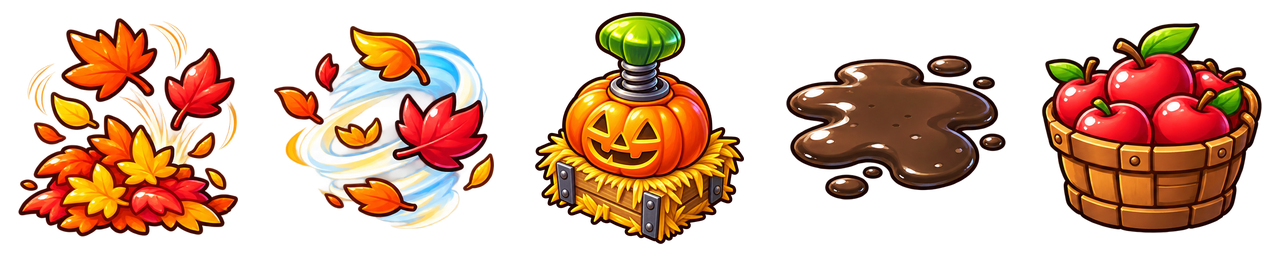
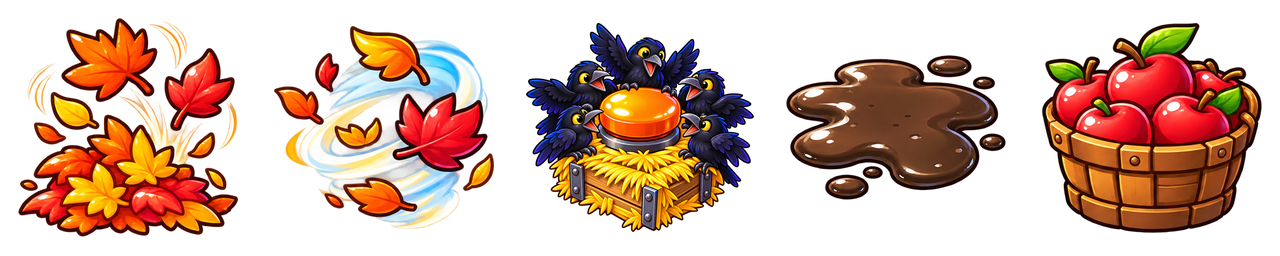
Deliver CR1 crows trigger and CR2 aligned flying crows; 36 unit and 32 silent browser checks passed

Changed region(s): [[0.4062, 0.0312, 0.5938, 0.9688]]

diff --git a/americangirldollrace/tracks.js b/americangirldollrace/tracks.js
@@ -93,7 +93,7 @@
 // TRACK_SHARED_ART lists delivered sheets at assets/<name>_sprites.webp that
 // several tracks may use: "skeleton_horse", "troll_riding" (§6 of the briefs)
 // and "frog" (§10).
-window.TRACK_SHARED_ART = ["skeleton_horse", "troll_riding", "frog", "rooster_crow"];
+window.TRACK_SHARED_ART = ["skeleton_horse", "troll_riding", "frog", "rooster_crow", "crow"];
 window.TRACK_GENERAL_MUSIC = ["assets/music/Plastic Shoes.mp3", "assets/music/Bubblegum Radar.mp3"];
 window.TRACK_THEMES = {
   farm: {
@@ -192,8 +192,9 @@ window.TRACK_THEMES = {
     empStyle: "crows",
     monster: "scarecrow",
     fenceBase: 479,
+    powerupArtVersion: "20261023-crows1",
     name: "Pumpkin Patch", music: "assets/music/Hey, Hay! Pumpkin Patch.mp3", dirtTop: 509, loopMode: "repeat", art: ["background", "card", "powerups", "projectile", "hurdle"],
-    labels: { jump: "LEAF PILE", boost: "LEAF GUST", emp: "SCARECROW", oil: "PUDDLE", snowball: "APPLES" },
+    labels: { jump: "LEAF PILE", boost: "LEAF GUST", emp: "CROWS", oil: "PUDDLE", snowball: "APPLES" },
     sounds: { emp: "pickup_crows" }
   },
   clouds: {

diff --git a/americangirldollrace/index.html b/americangirldollrace/index.html
@@ -327,7 +327,7 @@
     </main>
     <div id="barsHint" hidden><span class="bars-arrow" aria-hidden="true">↑</span> Swipe up to hide Safari’s bars · or Share → Add to Home Screen</div>
     <script src="config.js?v=81dc0cfb"></script>
-    <script src="tracks.js?v=2dc7a76f"></script>
+    <script src="tracks.js?v=1e69611b"></script>
     <script src="doll-art.js?v=05306016"></script>
     <script src="assets/audio/manifest.js?v=8761a783"></script>
     <script src="audio.js?v=baeb1965"></script>

diff --git a/americangirldollrace/tools/effects/autumn-crows/build.py b/americangirldollrace/tools/effects/autumn-crows/build.py
@@ -1,0 +1,46 @@
+"""Export the two reviewed crow assets, retaining untouched pickup pixels."""
+from pathlib import Path
+from PIL import Image
+import numpy as np
+import json, hashlib, importlib.util
+HERE = Path(__file__).resolve().parent
+GAME = HERE.parents[2]
+spec = importlib.util.spec_from_file_location('packing', GAME/'tools/tracks/build.py')
+p = importlib.util.module_from_spec(spec); spec.loader.exec_module(p)
+icon = p.clean(Image.open(HERE/'icon-source.webp'))
+button = p.icon(icon, (256,256), (228,228))
+before = Image.open(HERE/'powerups-before.webp').convert('RGBA')
+after = before.copy(); after.paste(button, (512,0))
+for n in [0,1,3,4]:
+    box=(n*256,0,(n+1)*256,256)
+    assert before.crop(box).tobytes() == after.crop(box).tobytes()
+after.save(GAME/'assets/tracks/autumn/powerups.webp', lossless=True, exact=True, method=6)
+source = p.clean(Image.open(HERE/'flight-source.webp'))
+occupied=(np.asarray(source.getchannel('A'))>8).any(axis=0)
+cuts=[0]+[p.gap_cut(occupied,round(source.width*n/4),round(source.width*.04)) for n in [1,2,3]]+[source.width]
+items=[]
+for n in range(4):
+    im=source.crop((cuts[n],0,cuts[n+1],source.height));b=p.bounds(im)
+    assert b and b[0]>0 and b[1]>0 and b[2]<im.width and b[3]<im.height,b
+    a=np.asarray(im);mask=(a[:,:,0]>180)&(a[:,:,1]>130)&(a[:,:,2]<110)&(a[:,:,3]>64)
+    yy,xx=np.nonzero(mask);assert len(xx)>30
+    # The yellow eye is the same rigid head landmark in all four poses.
+    eye=[float(xx.mean()),float(yy.mean())]
+    items.append((im,b,eye))
+scale=min(90/max(b[2]-b[0] for _,b,_ in items),54/max(e[1]-b[1] for _,b,e in items),60/max(b[3]-e[1] for _,b,e in items))
+sheet=Image.new('RGBA',(512,128));frames=[]
+for n,(im,b,eye) in enumerate(items):
+    art=im.crop(b).resize((round((b[2]-b[0])*scale),round((b[3]-b[1])*scale)),Image.Resampling.LANCZOS)
+    x=round(94-(eye[0]-b[0])*scale);y=round(62-(eye[1]-b[1])*scale)
+    assert x>0 and y>0 and x+art.width<128 and y+art.height<128,(n,x,y,art.size)
+    frame=Image.new('RGBA',(128,128));frame.alpha_composite(art,(x,y));sheet.paste(frame,(n*128,0))
+    frames.append({'bounds':p.bounds(frame),'eye':[94,62],'sourceEye':eye})
+sheet.save(GAME/'assets/crow_sprites.webp',lossless=True,exact=True,method=6)
+review=Image.new('RGB',(768,512))
+for y,c in [(0,'#fff9ed'),(256,'#18233c')]:
+    bg=Image.new('RGBA',(768,256),c);bg.alpha_composite(button,(0,0));bg.alpha_composite(sheet,(256,64));review.paste(bg.convert('RGB'),(0,y))
+review.save(HERE/'alpha-review.webp',quality=90,method=6)
+report={'flightScale':scale,'frames':frames,'unchangedPickupCells':[0,1,3,4],'assets':{}}
+for name in ['assets/crow_sprites.webp','assets/tracks/autumn/powerups.webp']:
+    path=GAME/name;report['assets'][name]={'size':Image.open(path).size,'sha256':hashlib.sha256(path.read_bytes()).hexdigest()}
+(HERE/'report.json').write_text(json.dumps(report,indent=2)+'\n')

diff --git a/americangirldollrace/image-requests.md b/americangirldollrace/image-requests.md
@@ -213,7 +213,7 @@ Sizes are final pixel sizes. The game scales art down but never up.
 > Beach's R8 jump cell is now a pool-ring spring, with its new POOL SPRING label.
 > The §8 riding toys are in for fourteen dolls; K3 (trial falls) and the
 > §8.1 icons R10, R12–R14 are delivered.
-> **Current queue:** §20 Pumpkin Patch crows EMP icon (CR1) and flying crow sprites (CR2). Everything else is delivered and checked; see delivery notes below.
+> **Current queue:** none. Everything is delivered and checked; see delivery notes below.
 > Delivered: Hermione/Lily/Mira action trial, all §10.2 shared sprites and both
 > §9 monsters; retained sources, calibration and in-game reviews accompany them.
 
@@ -887,7 +887,7 @@ the existing pop/bob. All three cells and facing directions passed silent
 browser review. Source, built-in ImageGen prompt and packing report:
 `tools/effects/rooster-crow/`.
 
-## 20. Open: Pumpkin Patch crows: the EMP trigger and flying crows
+## 20. Delivered: Pumpkin Patch crows: the EMP trigger and flying crows
 
 Pumpkin Patch's EMP sends crows flying from the trigger to everyone it hits;
 they circle each head and leave them dizzy. Today the trigger is a pumpkin
@@ -910,3 +910,9 @@ take the CROWS EMP with someone in range: the pickup reads as crows on a
 button at its in-game size, and the crows that fly out and circle each head
 flap smoothly, facing the way they fly.
 
+
+CR1/CR2 delivered: five glossy black crows gather around the orange hay-crate
+button; other four decoded pickup cells are pixel-identical. Four right-facing
+flight cells use uniform scale and fixed head/body alignment. Shared crow art
+and CROWS label registered; actual flight, circling and both directions passed
+review. Sources, prompts, export report and proofs: `tools/effects/autumn-crows/`.

diff --git a/americangirldollrace/tools/effects/autumn-crows/README.md b/americangirldollrace/tools/effects/autumn-crows/README.md
@@ -1,0 +1,7 @@
+CR1/CR2 Pumpkin Patch crows. Sources and exact built-in ImageGen prompts retained.
+Reproduce with python3 americangirldollrace/tools/effects/autumn-crows/build.py
+CR1 changes only zero-based cell2; cells0,1,3,4 decoded RGBA are pixel-identical.
+CR2 uses one uniform scale and the same yellow-eye anchor across four128px cells,
+keeping the body/head steady while wings flap. Reviewed alpha on light/dark,
+thumbnail icon and flight/circle animation at gameplay scale.
+36 unit and32 silent browser checks passed.
